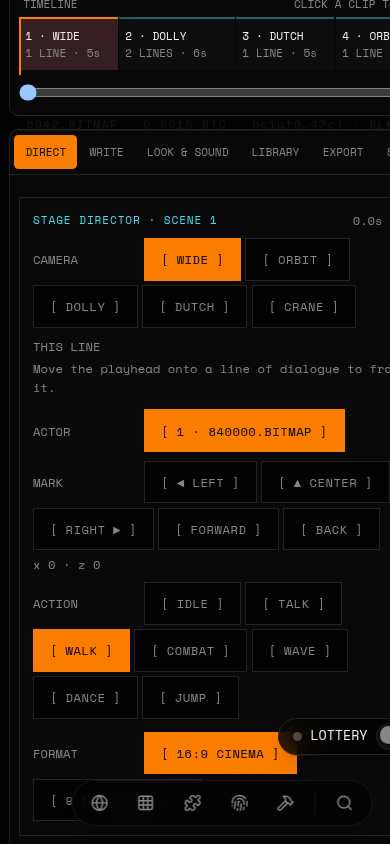
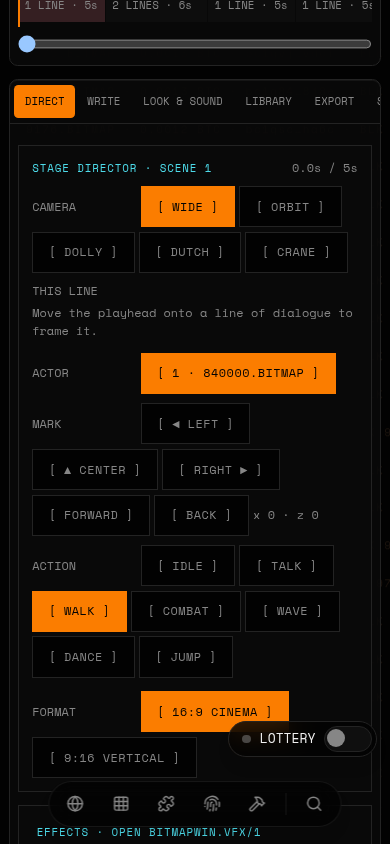
Changes

diff --git a/src/routes/toon.tsx b/src/routes/toon.tsx
@@ -199,13 +199,13 @@ function ToonPage() {
       <div className="mt-3 grid grid-cols-[minmax(0,1fr)] gap-3 lg:grid-cols-[minmax(0,1fr)_440px]">
         {/* Monitor column */}
         <div className="min-w-0 space-y-3">
-          <section className="studio-panel p-2">
+          <section className="studio-panel min-w-0 overflow-hidden p-2">
             <div className="mb-2 flex items-center justify-between px-1 font-mono text-[10px] text-muted-foreground">
               <span>PROGRAM MONITOR · SCENE {cur + 1}/{episode.scenes.length} · {episode.scenes[cur]?.shot.toUpperCase()}</span>
               <label className="flex items-center gap-1.5"><input type="checkbox" checked={guides} onChange={(e) => setGuides(e.target.checked)} /> GUIDES</label>
             </div>
-            <div className="studio-monitor grid place-items-center rounded">
-              <div ref={stageRef} className={`relative w-full overflow-hidden ${vertical ? "aspect-[9/16] max-h-[70vh] w-auto" : "aspect-video"}`} style={vertical ? { height: "70vh" } : undefined}>
+            <div className="studio-monitor flex min-w-0 justify-center overflow-hidden rounded">
+              <div ref={stageRef} className={`relative w-full max-w-full overflow-hidden ${vertical ? "aspect-[9/16] max-h-[70vh] w-auto" : "aspect-video"}`} style={vertical ? { height: "70vh" } : undefined}>
                 <div className="absolute inset-0" style={{ filter: styleFilter(episode.style) }}>
                   <ClientOnly fallback={<div className="grid h-full place-items-center font-mono text-xs text-muted-foreground">LOADING STAGE…</div>}>
                     <Suspense fallback={<div className="grid h-full place-items-center font-mono text-xs text-muted-foreground">LOADING STAGE…</div>}>
